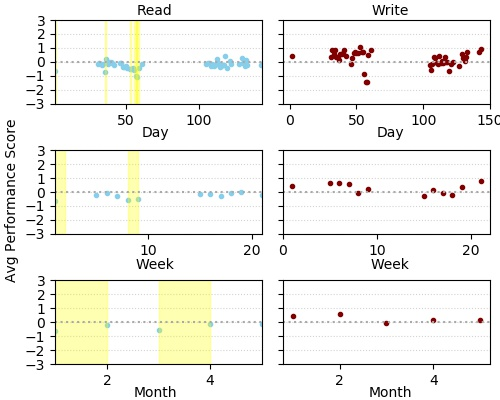
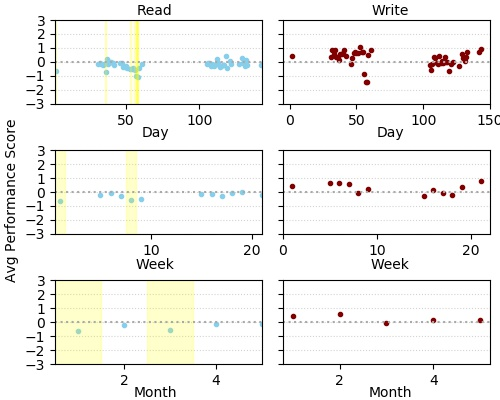
added phase coloring

diff --git a/example/simple_user.py b/example/simple_user.py
@@ -248,10 +248,11 @@ for app in top_apps:
         axes[n][0].scatter(x, y, marker='.', color='skyblue',label=op)
         axes[n][0].set_ylim(-3, 3)
         for i in range(0,len(y)):
-            if y[i]>0.5:
-                axes[n][0].axvspan(x[i], x[i]+1, alpha=0.3, color='green')
-            elif y[i]<-0.5:
-                axes[n][0].axvspan(x[i], x[i]+1, alpha=0.3, color='yellow')
+            for r in np.arange(0.5,3.5,.5):
+                if y[i]>r:
+                    axes[n][0].axvspan(x[i]-0.5, x[i]+0.5, alpha=0.2, color='green')
+                elif y[i]<-r:
+                    axes[n][0].axvspan(x[i]-0.5, x[i]+0.5, alpha=0.2, color='yellow')
         axes[n][0].set_ylabel('')
         axes[n][0].set_yticks(np.arange(-3,4,1))
         axes[n][0].yaxis.grid(color='lightgrey', linestyle=':')
